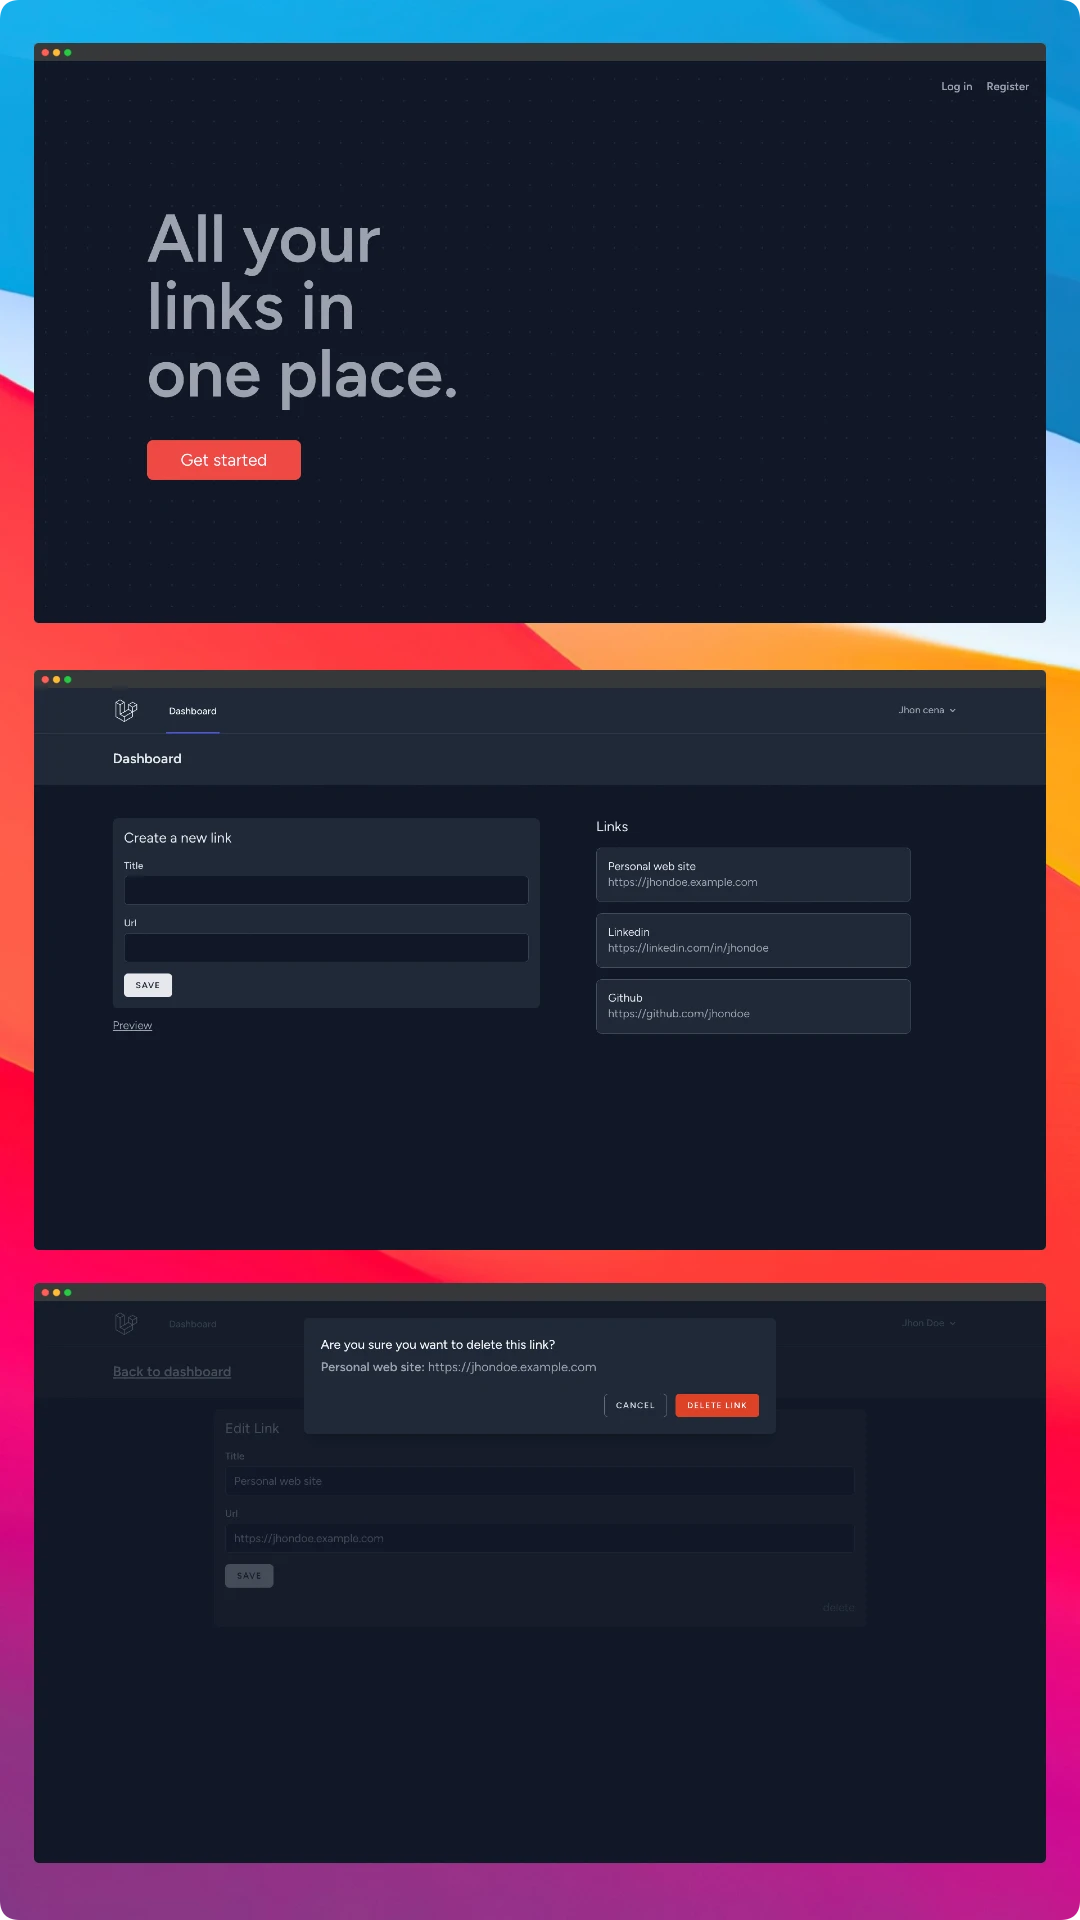
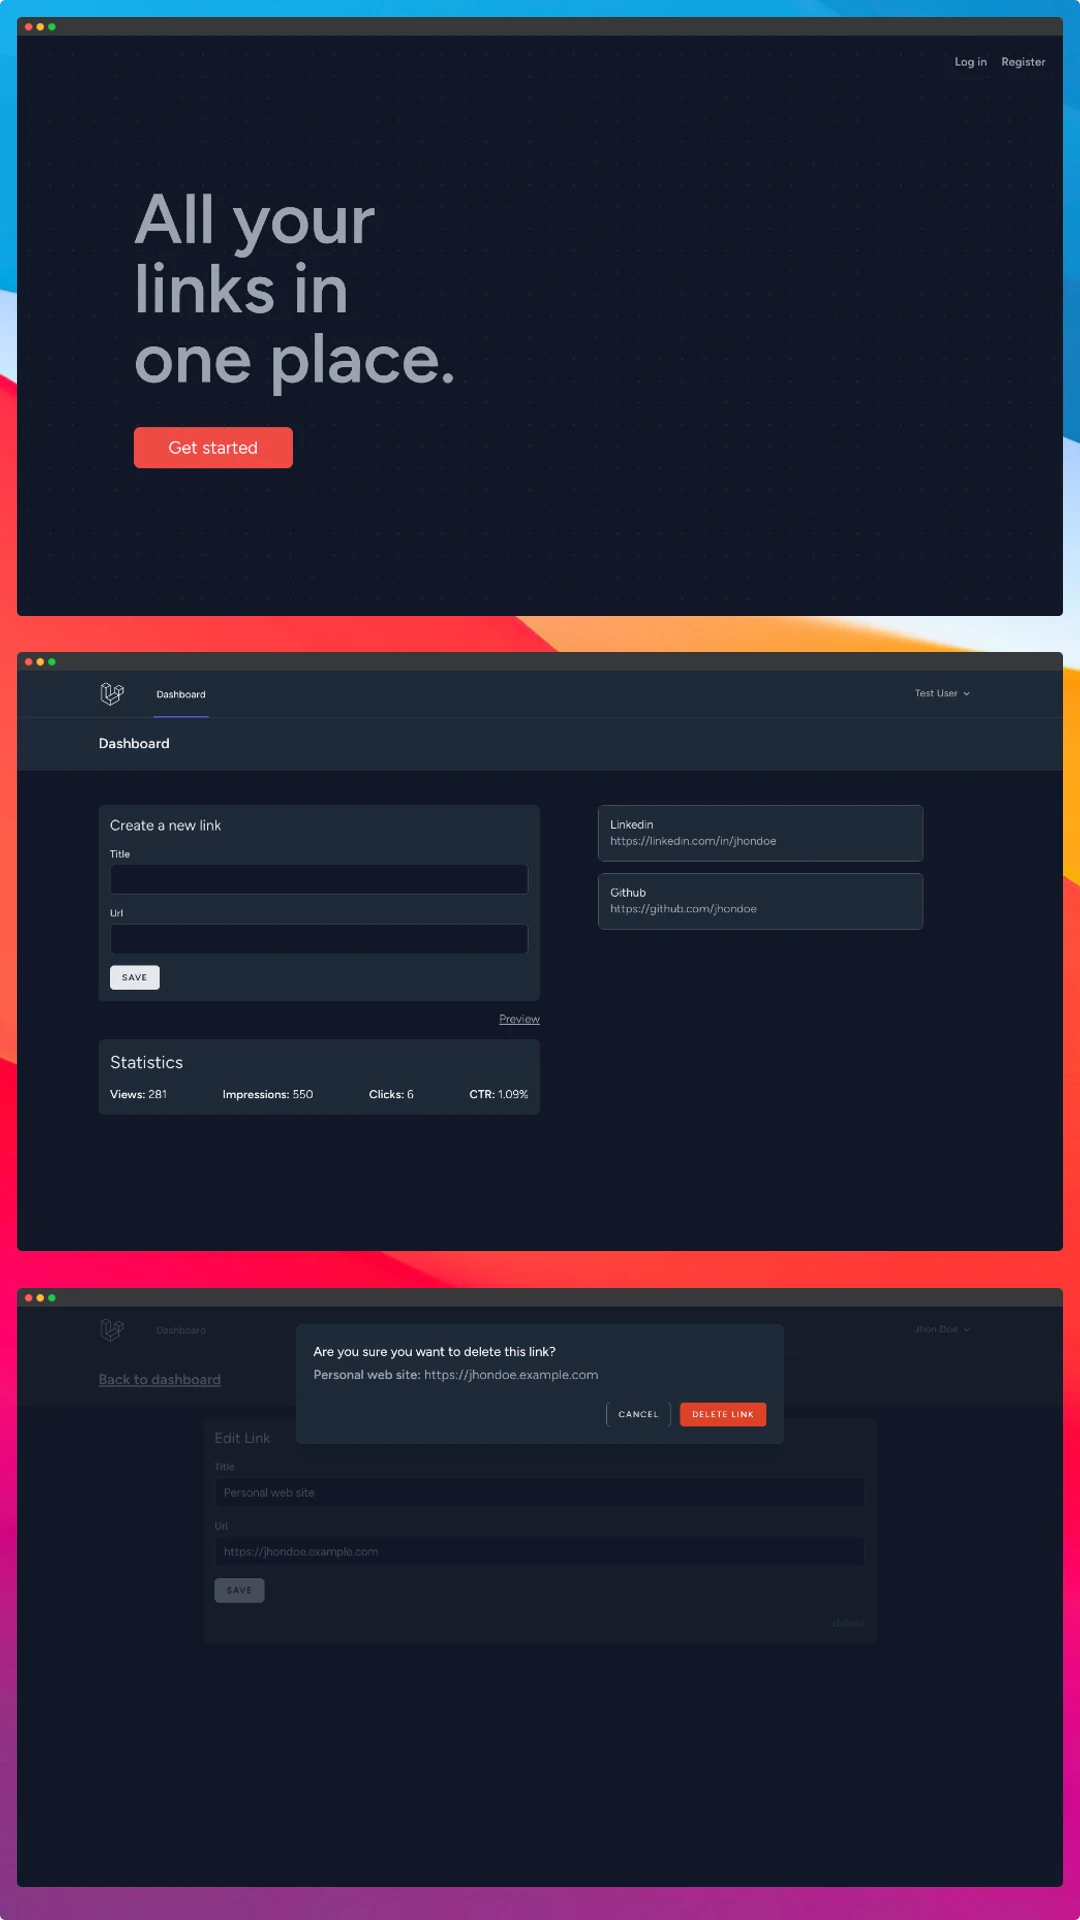
docs: update readme

diff --git a/README.md b/README.md
@@ -2,8 +2,10 @@
 A pretty simple linktree clone made with Laravel and tailwindcss.
 
 ## features
-- Responsive, dark theme and light theme
+- Profile bio, username
 - Create and edit links
+- Statistics clicks, impressions, views, ctr
+- Responsive, dark theme and light theme
 
 ## Preview
 ![Linktree clone Screenshots](mockup.webp)
